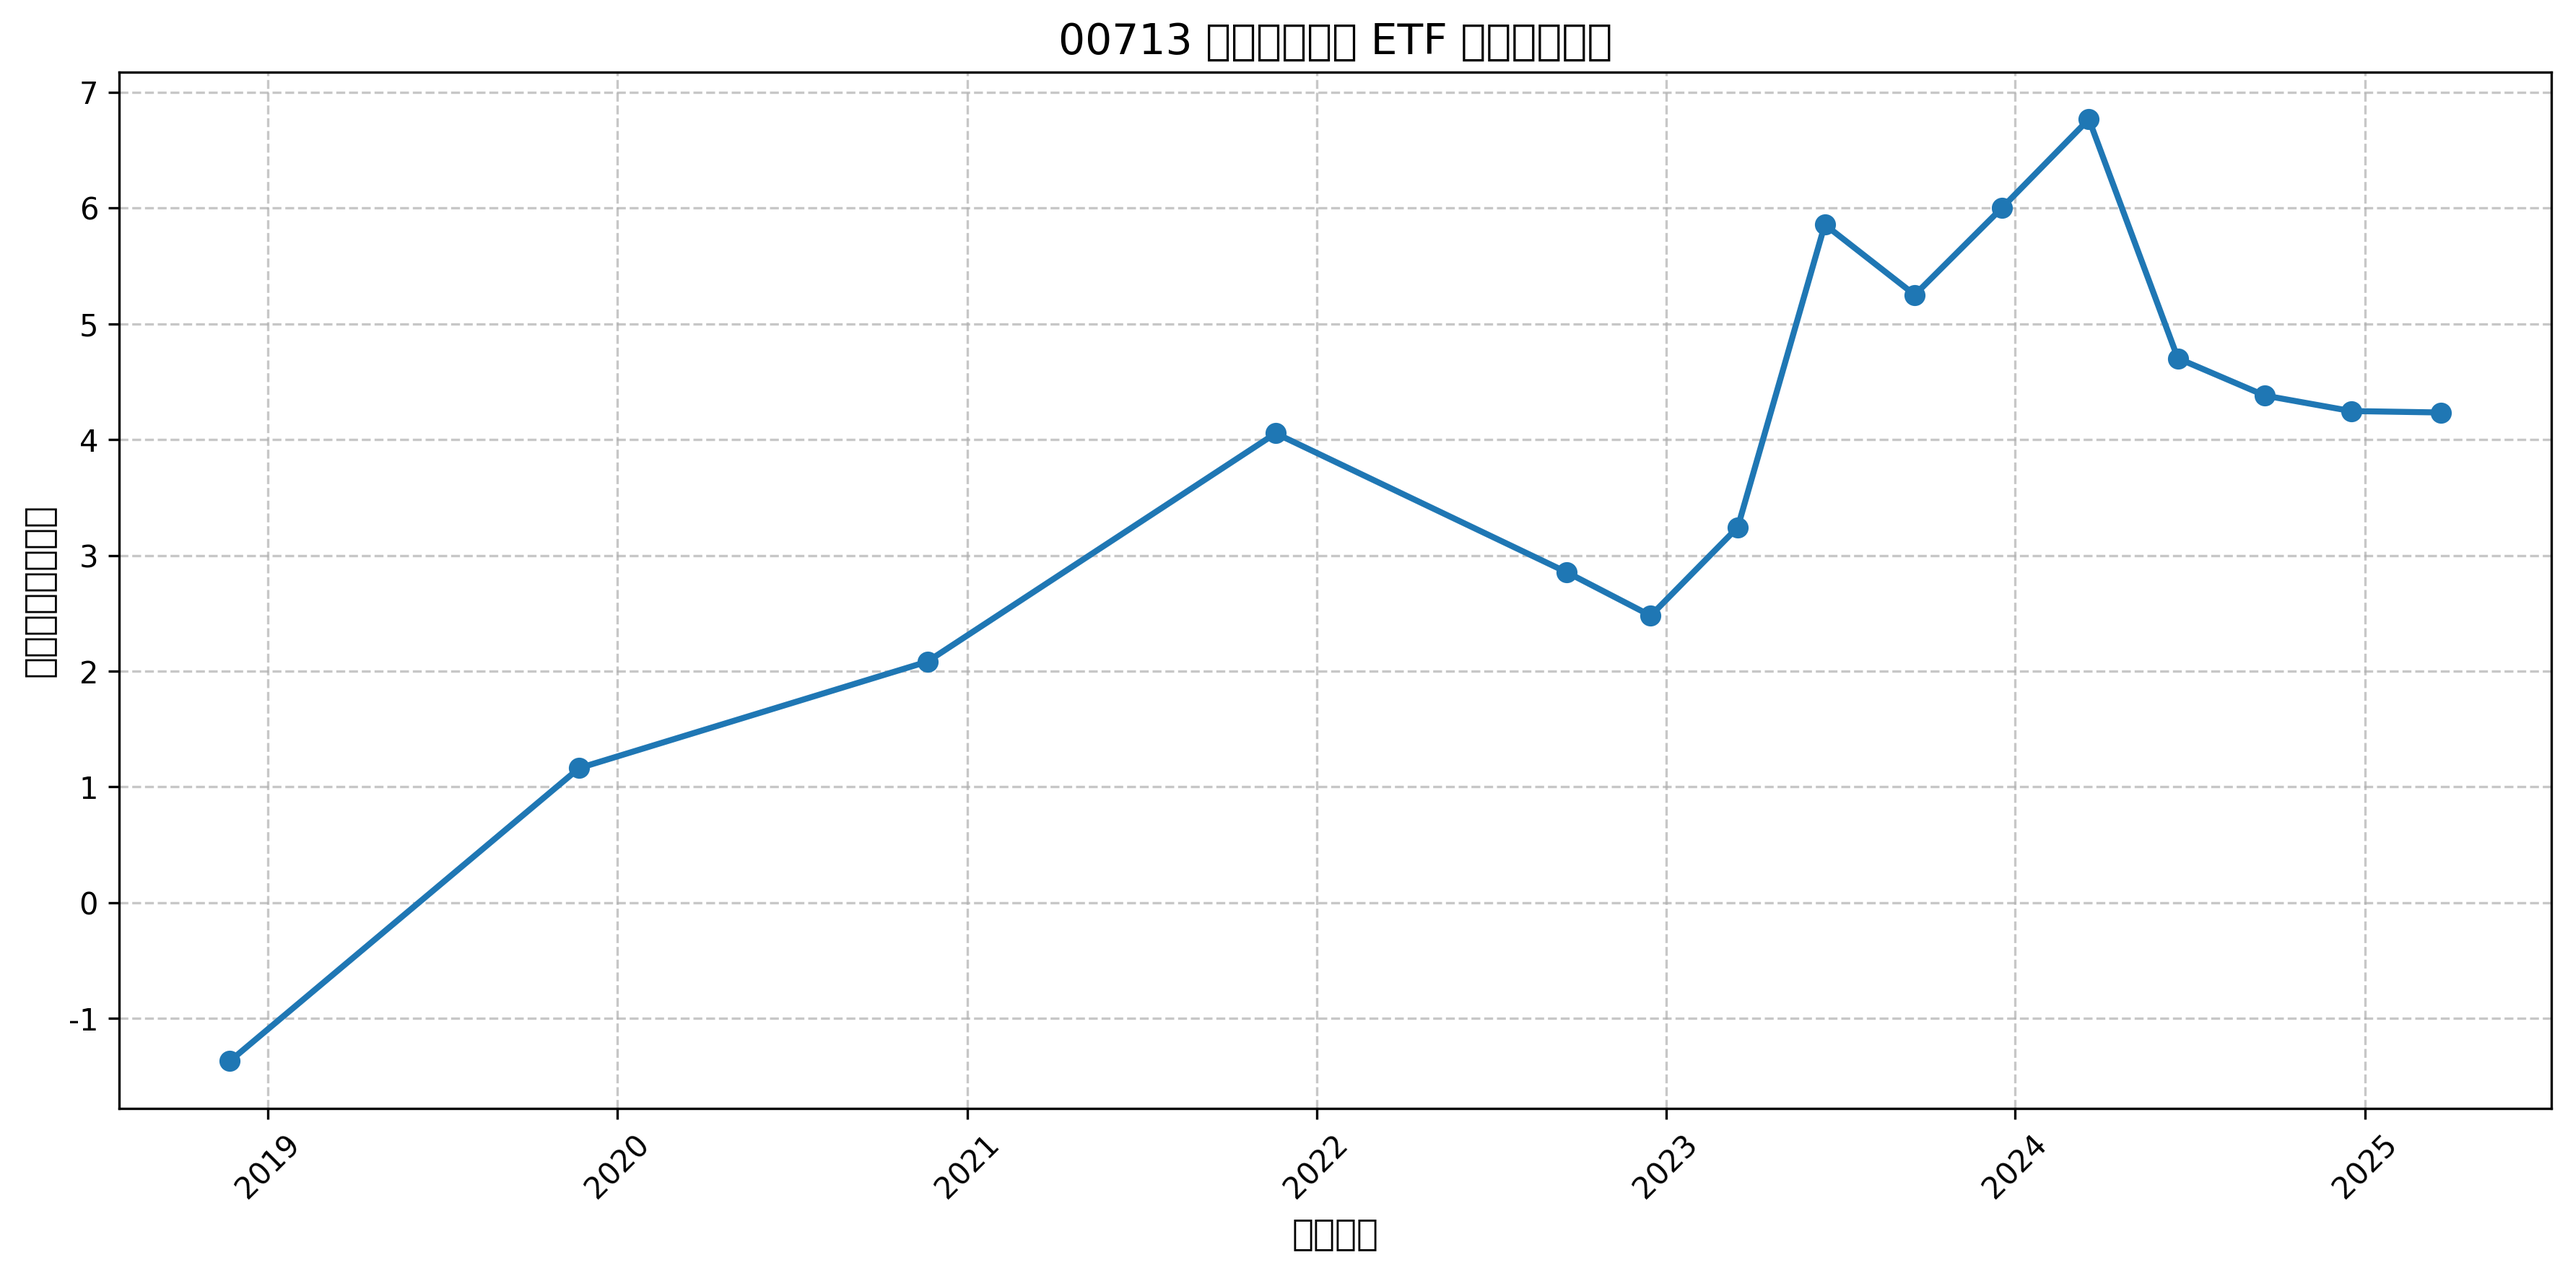
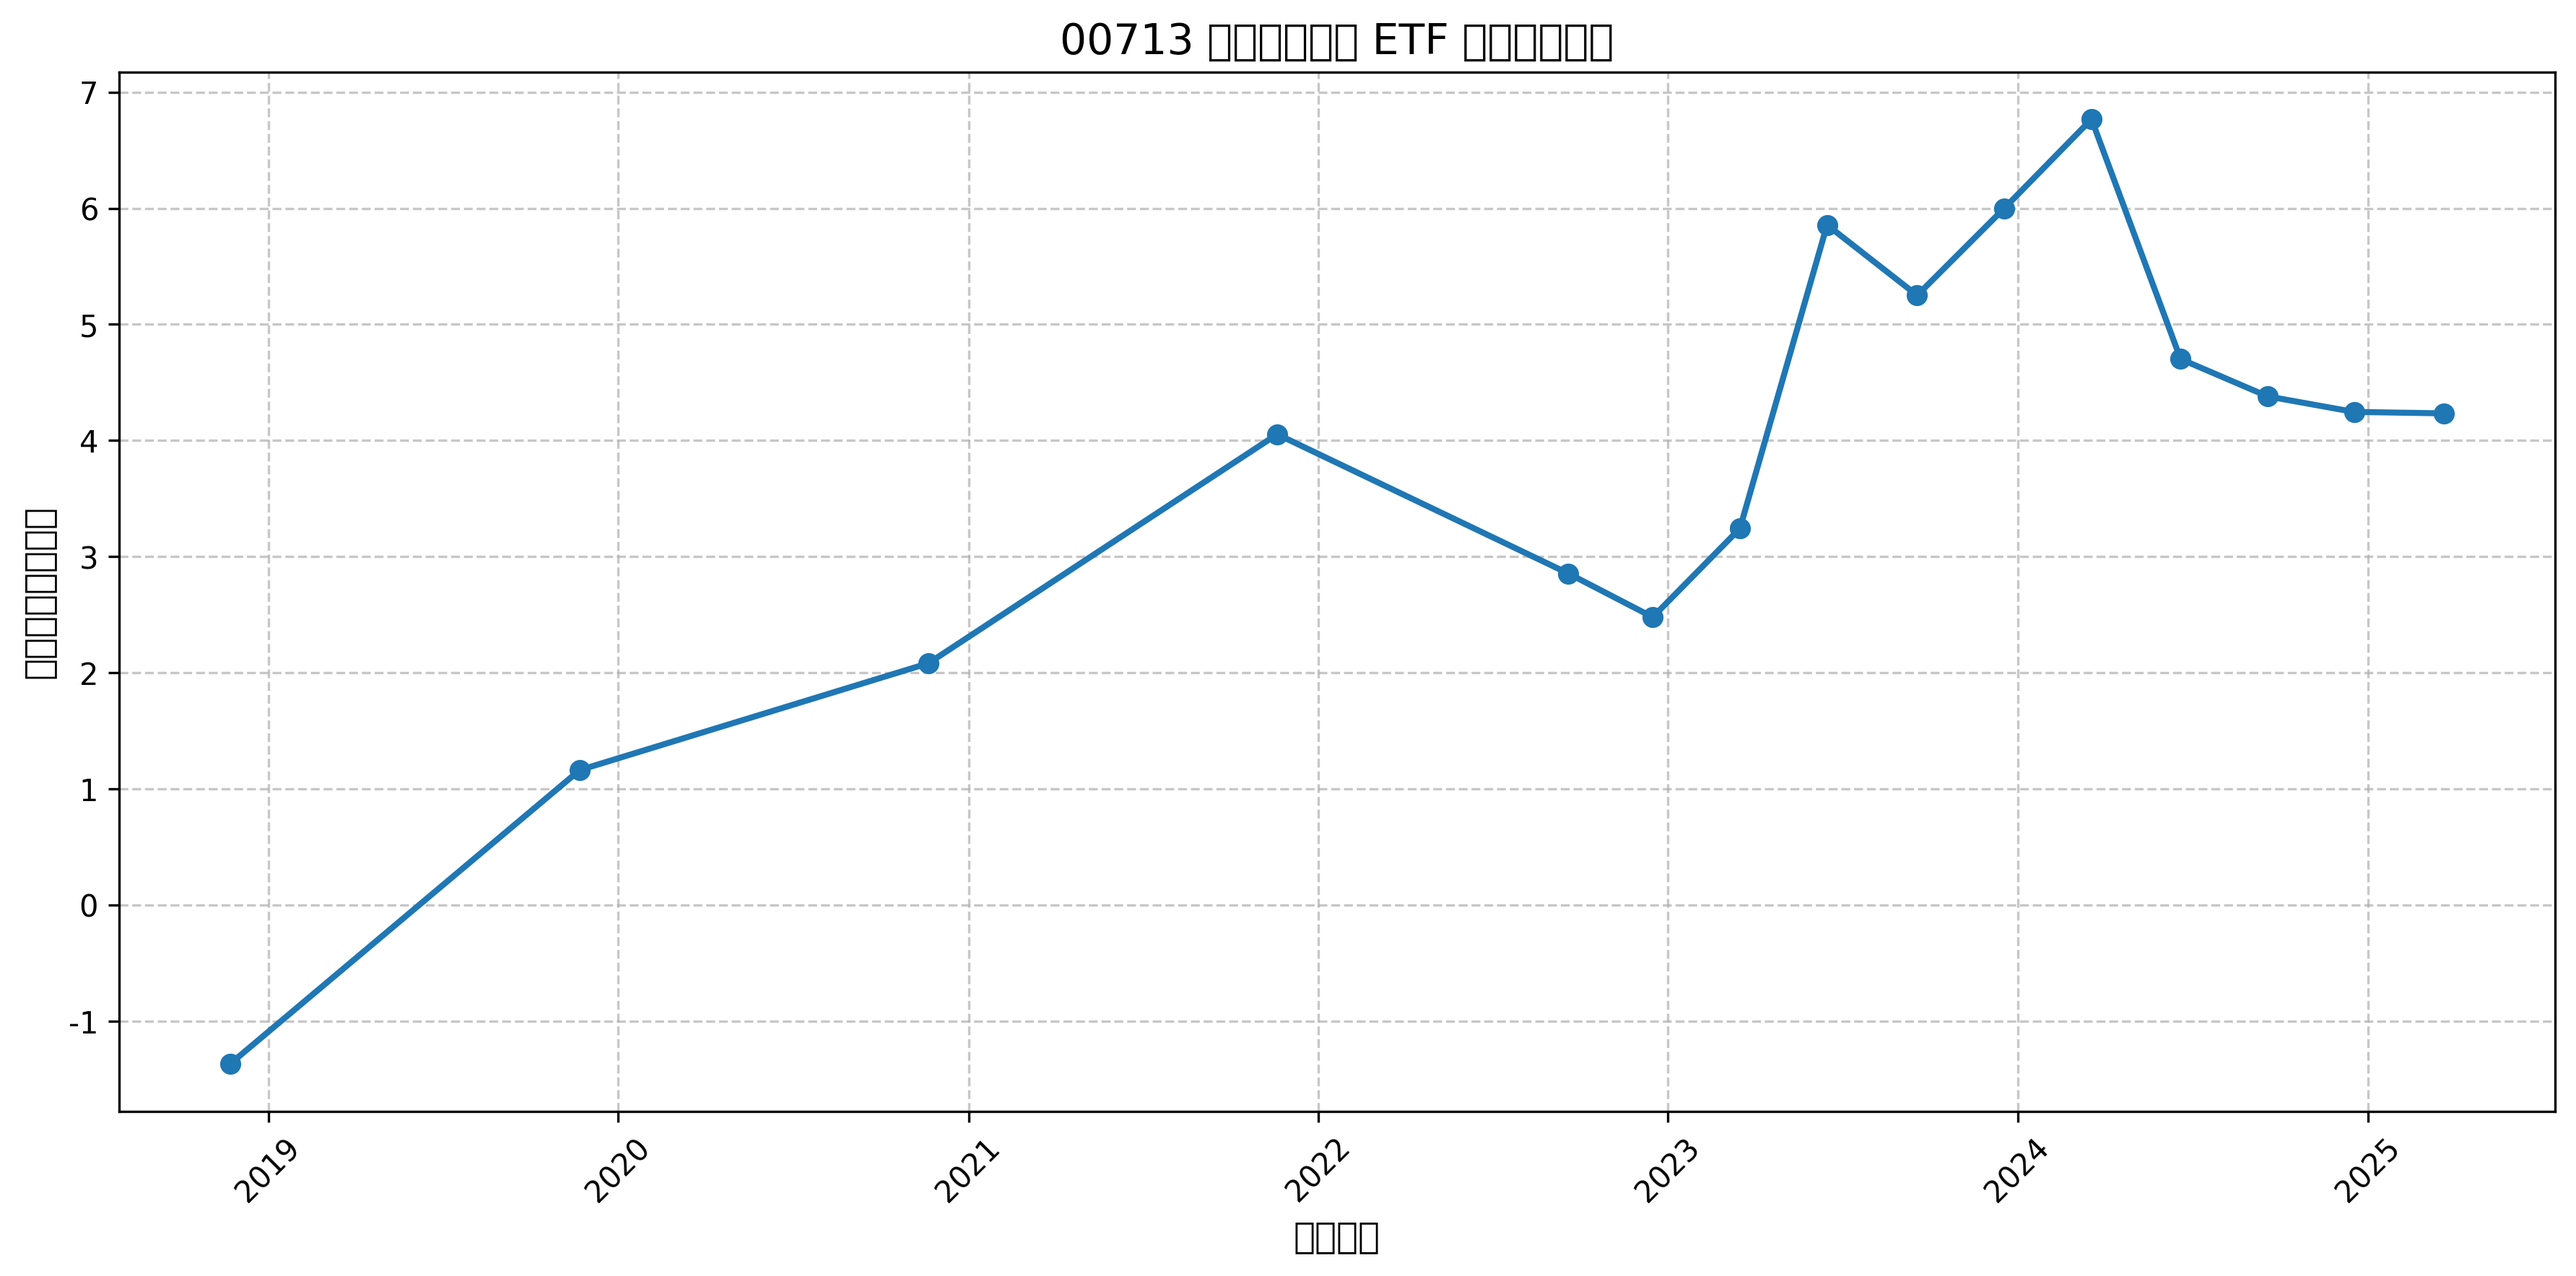
test

diff --git a/strategy/future_dividend_payment_capacity_strategy.py b/strategy/future_dividend_payment_capacity_strategy.py
@@ -41,7 +41,7 @@ def analyze_dividend_payment_capacity(stock_symbol):
     df['Future_Payment_Capacity'] = df.apply(calculate_future_payment_capacity, axis=1)
     
     # 設定中文字體
-    plt.rcParams['font.sans-serif'] = ['Arial Unicode MS']
+    plt.rcParams['font.sans-serif'] = ['Noto Sans CJK TC', 'Noto Sans CJK JP', 'Noto Sans CJK KR', 'Noto Sans CJK SC']
     plt.rcParams['axes.unicode_minus'] = False
     
     # 創建圖表來視覺化分析結果
